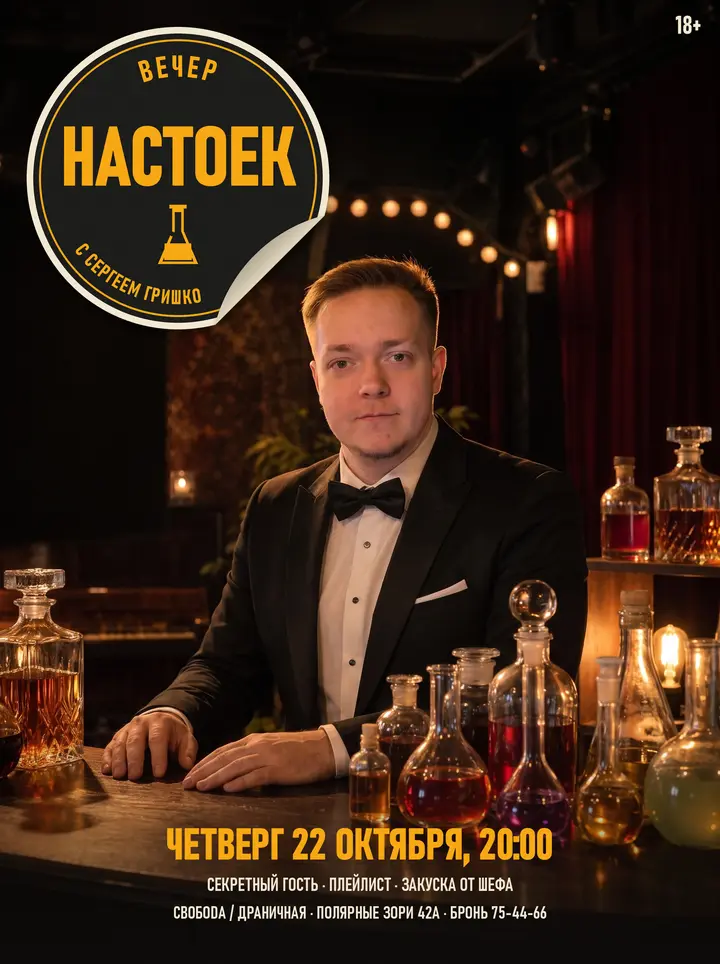
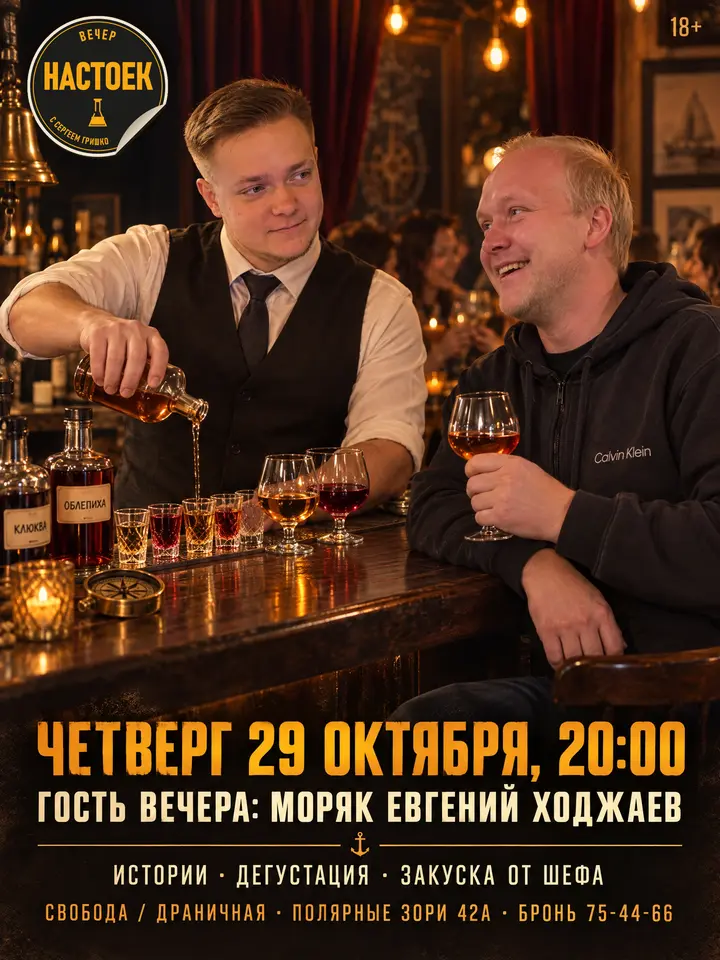
Книжка: вечер настоек 29.10 (гость Ходжаев), повторный вечер с чистой угадайкой

diff --git a/js/core.js b/js/core.js
@@ -1,6 +1,7 @@
 // Ядро «Настоечной книжки»: данные гостя, печати бармена, звания, топ, бэкап-ссылка. Без DOM.
 // Запись о настойке: {r: оценка 0-5, t: [теги гостя], n: заметка, f: 1 = возьму ещё, d: когда записал, s: когда поставлена печать, k: код печати (v1234 = печать с вечера)}
-// Вечер (cfg.event): st.v = {g: {проба: id догадки}, a: [ответы], rev: когда открыли, pz: когда выдан приз}
+// Вечер (cfg.event): st.v = {id: вечер, g: {проба: id догадки}, a: [ответы], rev: когда открыли, pz: когда выдан приз}
+// Прошлые вечера уходят в st.vh[id], их печати (k = v+код) проверяются по cfg.pastEvents
 const NK = (() => {
   const NOTE_MAX = 280, LINK_MAX = 3500, HASH_MAX = 20000;
   let cfg = null, st = null, key = '', mem = null, persistent = true, busy = false;
@@ -33,14 +34,17 @@ const NK = (() => {
     return [...new Uint8Array(b)].map(x => x.toString(16).padStart(2, '0')).join('').slice(0, 16);
   }
   async function shaBytes(s) { return new Uint8Array(await crypto.subtle.digest('SHA-256', new TextEncoder().encode(s))); }
-  async function evAnswers(code) {  // ответы вечера по коду ведущего, без кода их нет
-    const ev = cfg.event; if (!ev || !code || (await sha(cfg.salt + ':vecher:' + code)) !== ev.h) return null;
+  async function evAnswers(code, ev = cfg.event) {  // ответы вечера по коду ведущего, без кода их нет
+    if (!ev || !code || (await sha(cfg.salt + ':vecher:' + code)) !== ev.h) return null;
     const ks = await shaBytes(cfg.salt + ':vbox:' + code);
     return ev.box.match(/../g).map((x, i) => parseInt(x, 16) ^ ks[i % 32]);
   }
   const codeOk = async (t, code) => {
     if (!code) return false;
-    if (code[0] === 'v') { const a = await evAnswers(code.slice(1)); return !!a && a.includes(t.id); }  // печать с вечера
+    if (code[0] === 'v') {  // печать с вечера, этого или прошлого
+      for (const ev of [cfg.event, ...(cfg.pastEvents || [])]) { const a = await evAnswers(code.slice(1), ev); if (a) return a.includes(t.id); }
+      return false;
+    }
     return (await sha(cfg.salt + ':' + t.id + ':' + code)) === t.h;
   };
 
@@ -51,6 +55,8 @@ const NK = (() => {
     const e = {};
     for (const [id, v] of Object.entries(st.e)) { if (!byId(id)) continue; const c = clean(v); if (!empty(c)) e[String(+id)] = c; }
     st.e = e;
+    const ev = cfg.event;  // угадайка прошлого вечера уезжает в архив, на новом вечере гость играет с нуля
+    if (ev && st.v && (st.v.id || 'old') !== ev.id) { st.vh = Object.assign(st.vh || {}, {[st.v.id || 'old']: st.v}); st.v = null; }
   }
   function init(config) { cfg = config; key = cfg.storageKey; load(); return api; }
   const flags = () => ({adult: !!st.adult, onboarded: !!st.onboarded});
@@ -105,7 +111,7 @@ const NK = (() => {
   function evGuess(p, id) {  // p: номер пробы с 1, id: настойка или 0
     const ev = cfg.event; p = +p;
     if (!ev || st.v && st.v.rev || !(p >= 1 && p <= ev.n)) return evState();
-    st.v = st.v || {}; st.v.g = st.v.g || {};
+    st.v = st.v || {id: ev.id}; st.v.g = st.v.g || {};
     if (byId(id)) st.v.g[p] = +id; else delete st.v.g[p];
     store.write(); return st.v;
   }
@@ -127,7 +133,7 @@ const NK = (() => {
         store.write(); return res;
       }
       const before = rank().r, now = Date.now(); let added = 0;
-      st.v = Object.assign(st.v || {}, {a, rev: now});
+      st.v = Object.assign(st.v || {id: ev.id}, {a, rev: now});
       for (const id of new Set(a)) {  // все пробы вечера встают печатями
         const k = String(id), cur = st.e[k] || {};
         if (cur.s) continue;
